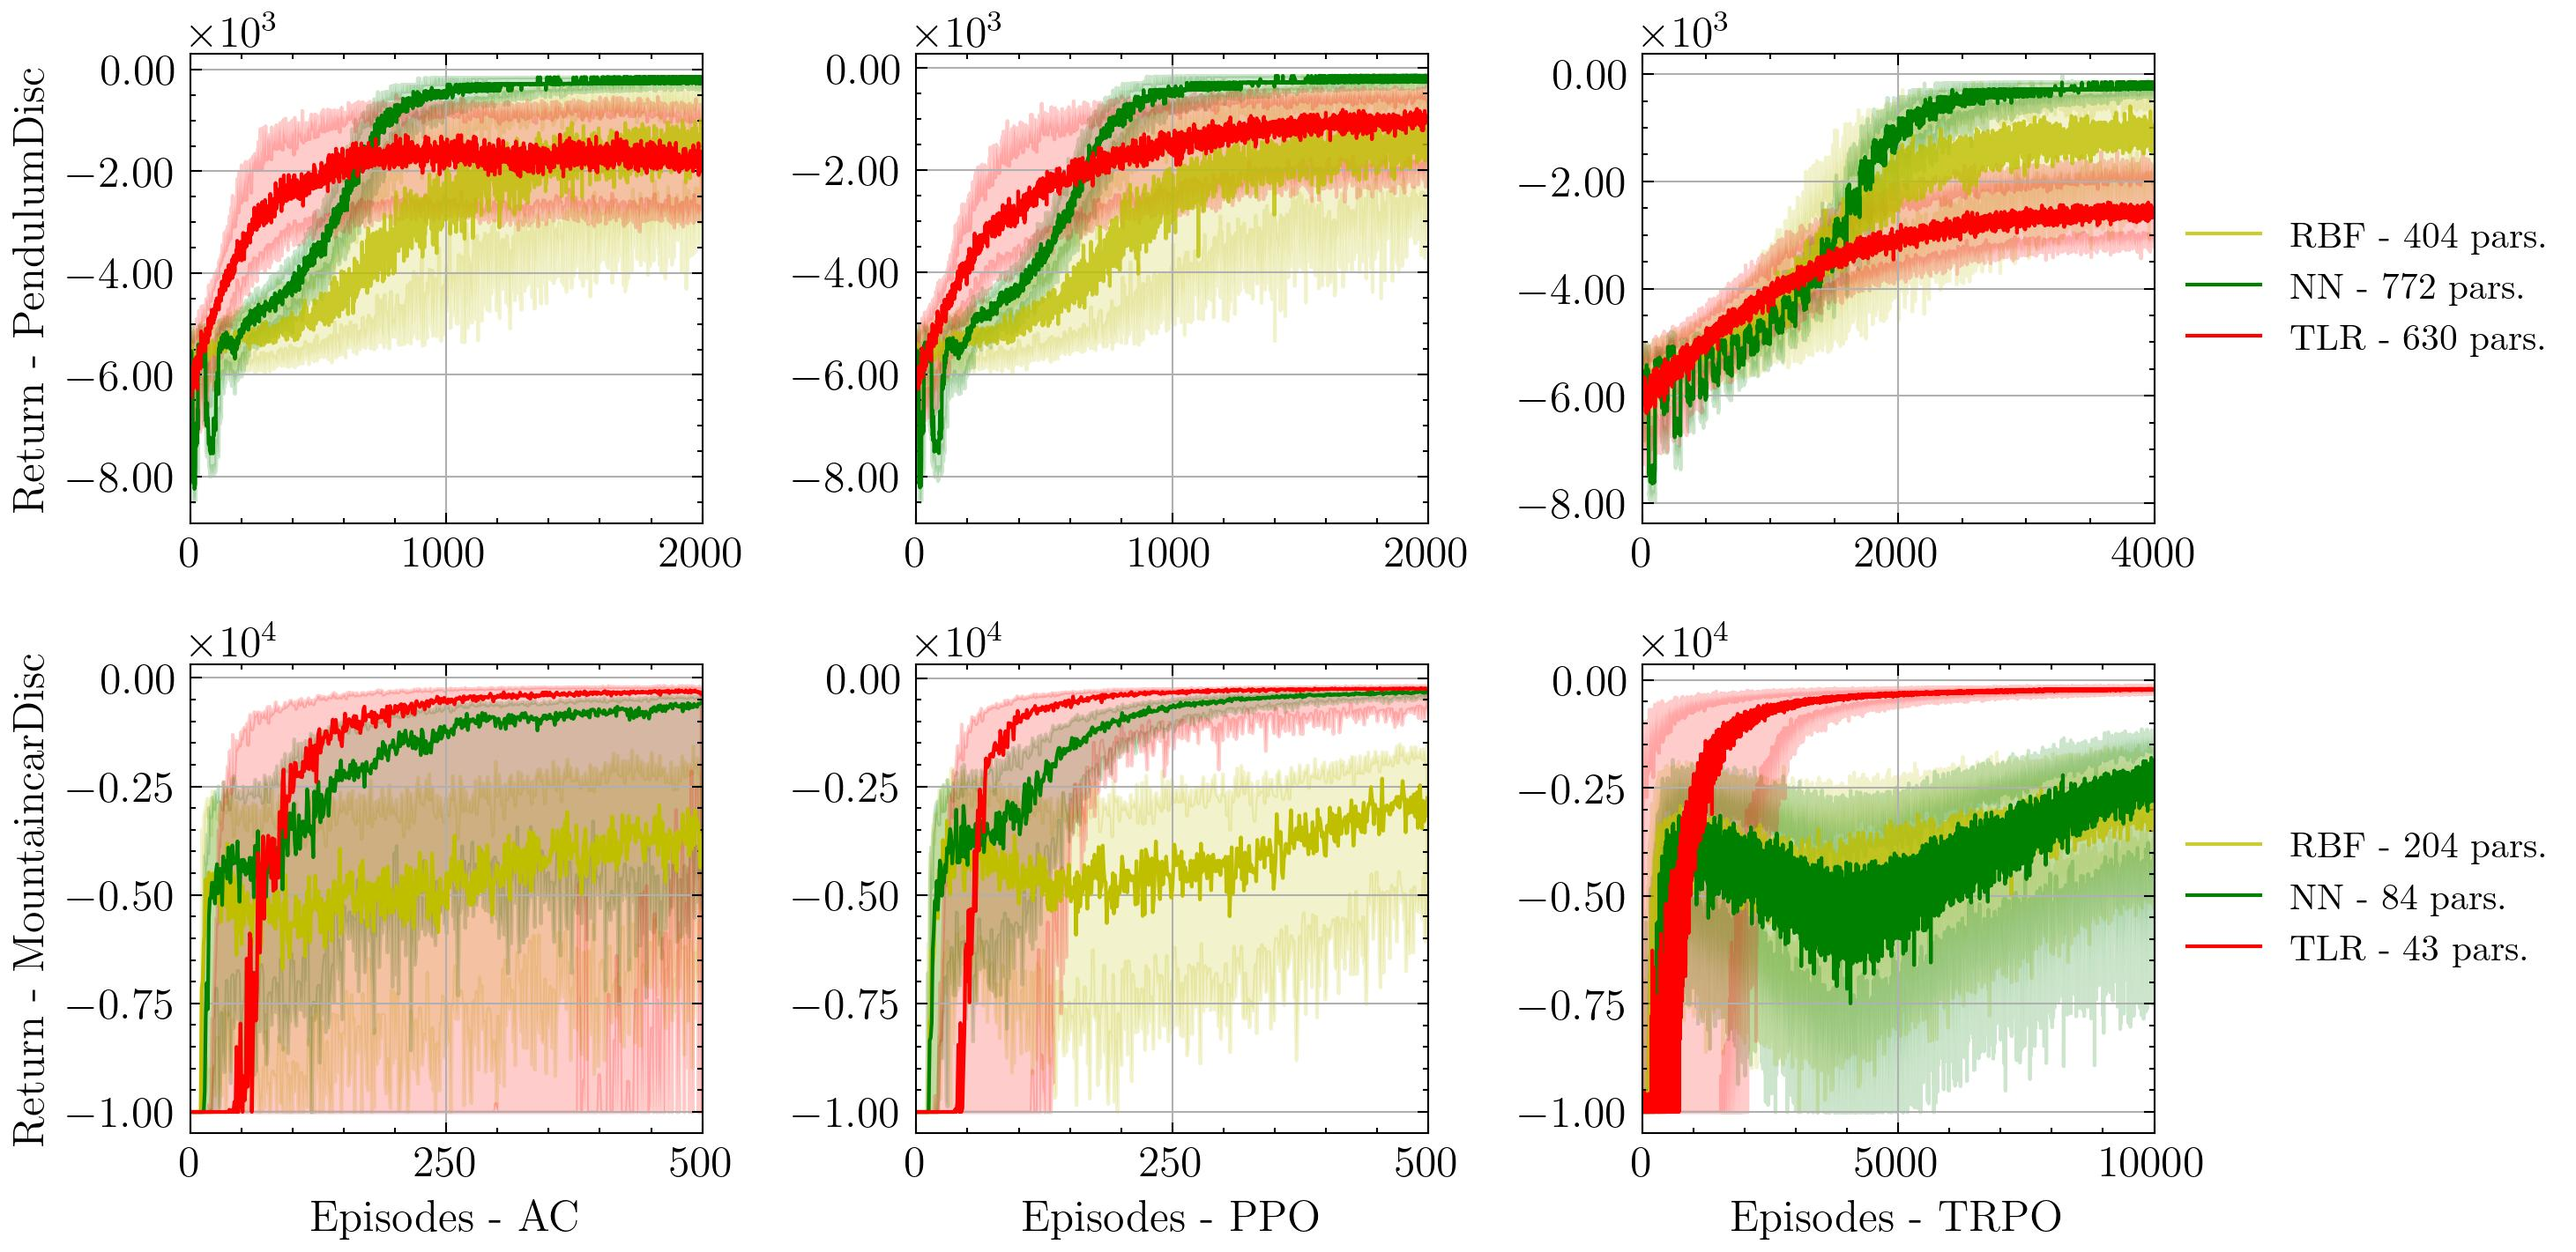
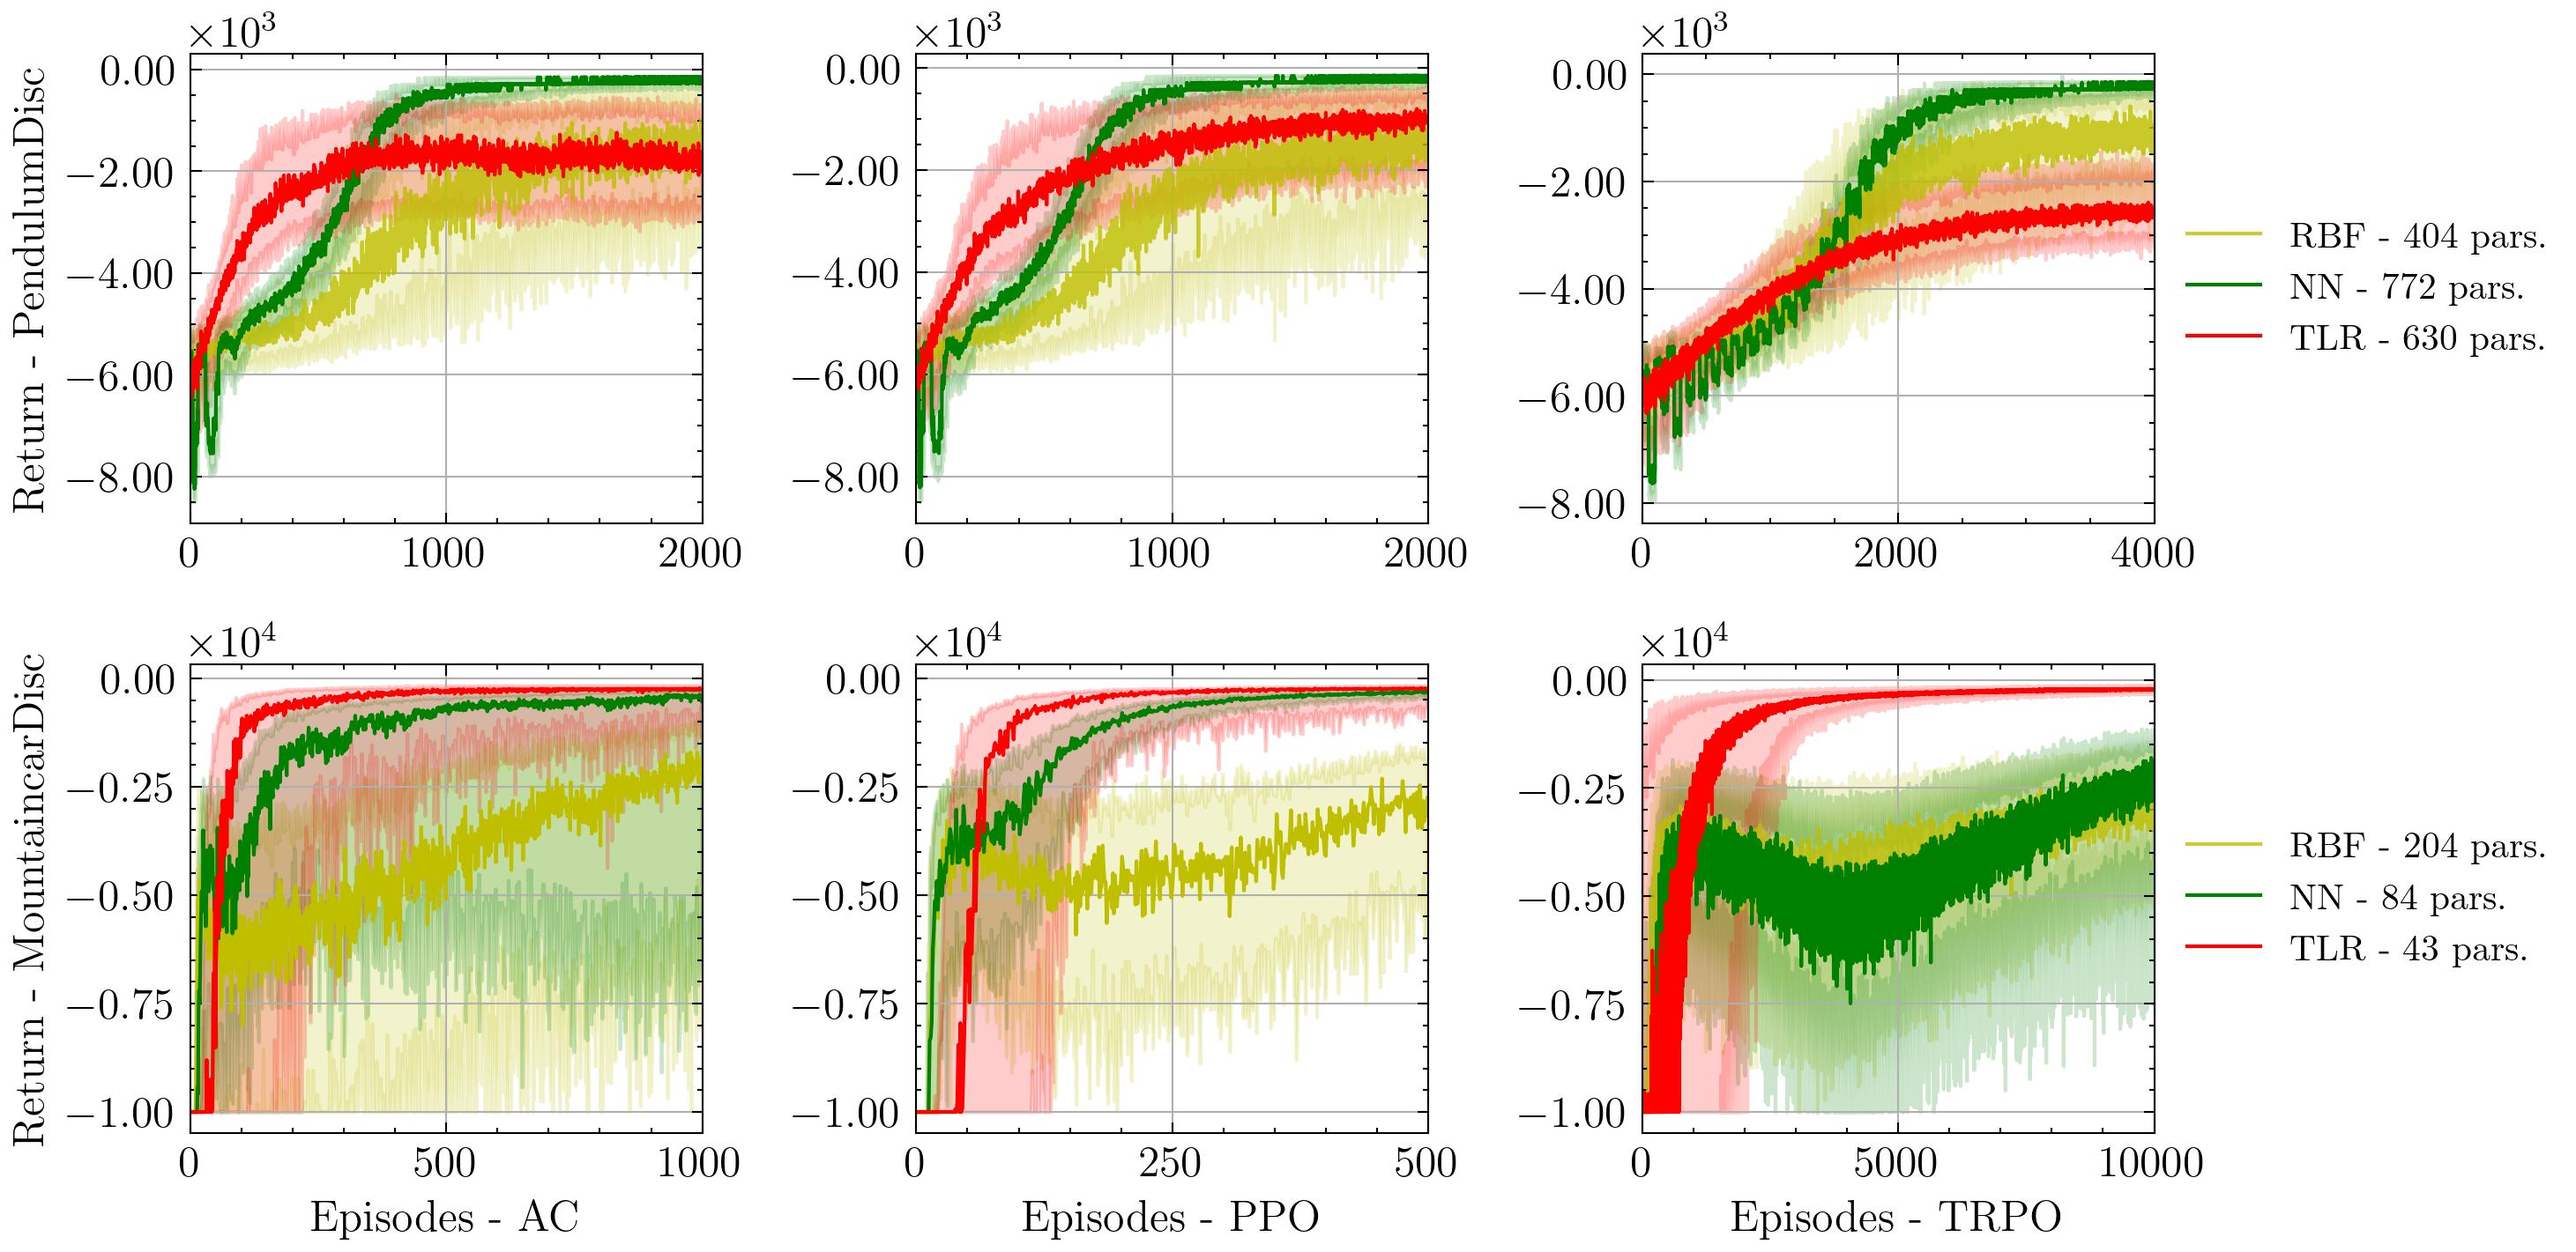
bug fixed in mount discrete

Changed region(s): [[0.0623, 0.5264, 0.2803, 0.9599]]

diff --git a/src/experiments/mountaincar_discrete.py b/src/experiments/mountaincar_discrete.py
@@ -45,7 +45,7 @@ def run_experiment_reinforce_nn(experiment_index):
         )
 
         trainer = Trainer(actor_opt='sgd', critic_opt='sgd')
-        _, G, _ = trainer.train(env, agent, epochs=500, max_steps=10_000, update_freq=20_000, initial_offset=10)
+        _, G, _ = trainer.train(env, agent, epochs=1_000, max_steps=10_000, update_freq=20_000, initial_offset=10)
         return G
     except:
         return [0]*500
@@ -133,7 +133,7 @@ def run_experiment_reinforce_ten(experiment_index):
         buckets=[10, 10],
     )
 
-    actor = PolicyPARAFAC([10, 10, 3], 1, scale=0.01, model='softmax', bias=-1).double()
+    actor = PolicyPARAFAC([10, 10, 3], 1, scale=0.01, model='softmax', bias=0).double()
     critic = ValuePARAFAC([10, 10], 1, 1.0, bias=-1).double()
 
     agent = ReinforceSoftmaxNN(
@@ -152,7 +152,7 @@ def run_experiment_reinforce_ten(experiment_index):
 
     trainer = Trainer(actor_opt='sgd', critic_opt='sgd')
     try:
-        _, G, _ = trainer.train(env, agent, epochs=500, max_steps=10_000, update_freq=20_000, initial_offset=10)
+        _, G, _ = trainer.train(env, agent, epochs=1_000, max_steps=10_000, update_freq=20_000, initial_offset=10)
         return G
     except:
         return [0]*500
@@ -268,7 +268,7 @@ def run_experiment_reinforce_rbf(experiment_index):
         )
 
         trainer = Trainer(actor_opt='sgd', critic_opt='sgd')
-        _, G, _ = trainer.train(env, agent, epochs=500, max_steps=10_000, update_freq=20_000, initial_offset=10)
+        _, G, _ = trainer.train(env, agent, epochs=1_000, max_steps=10_000, update_freq=20_000, initial_offset=10)
         return G
     except:
         return [0]*500

diff --git a/src/plots/control.py b/src/plots/control.py
@@ -331,8 +331,8 @@ def plot_control():
         ax.fill_between(range(p25.shape[0]), p25, p75, alpha=.2, color='r')
 
         ax.ticklabel_format(style = 'sci', axis='y', scilimits=(0,0))
-        ax.set_xlim(0, 500)
-        ax.set_xticks([0, 250, 500])
+        ax.set_xlim(0, 1_000)
+        ax.set_xticks([0, 500, 1_000])
         ax.set_xlabel("Episodes - AC")
         ax.set_ylabel("Return - MountaincarDisc")
         ax.grid()
